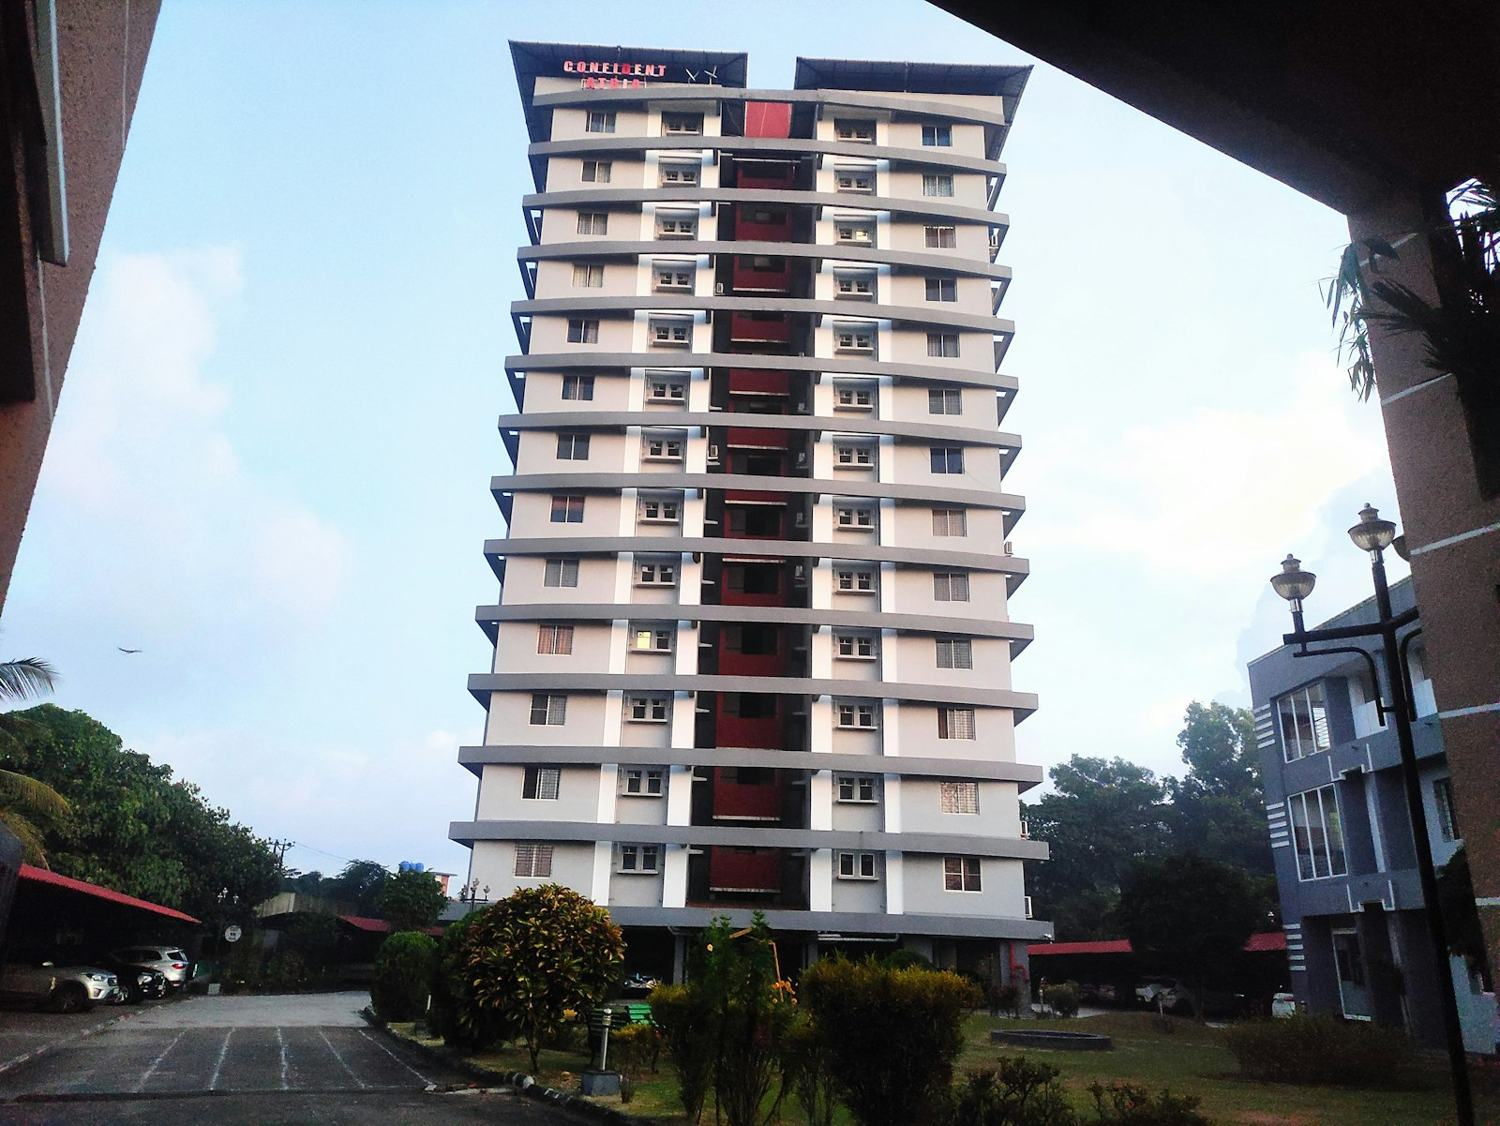
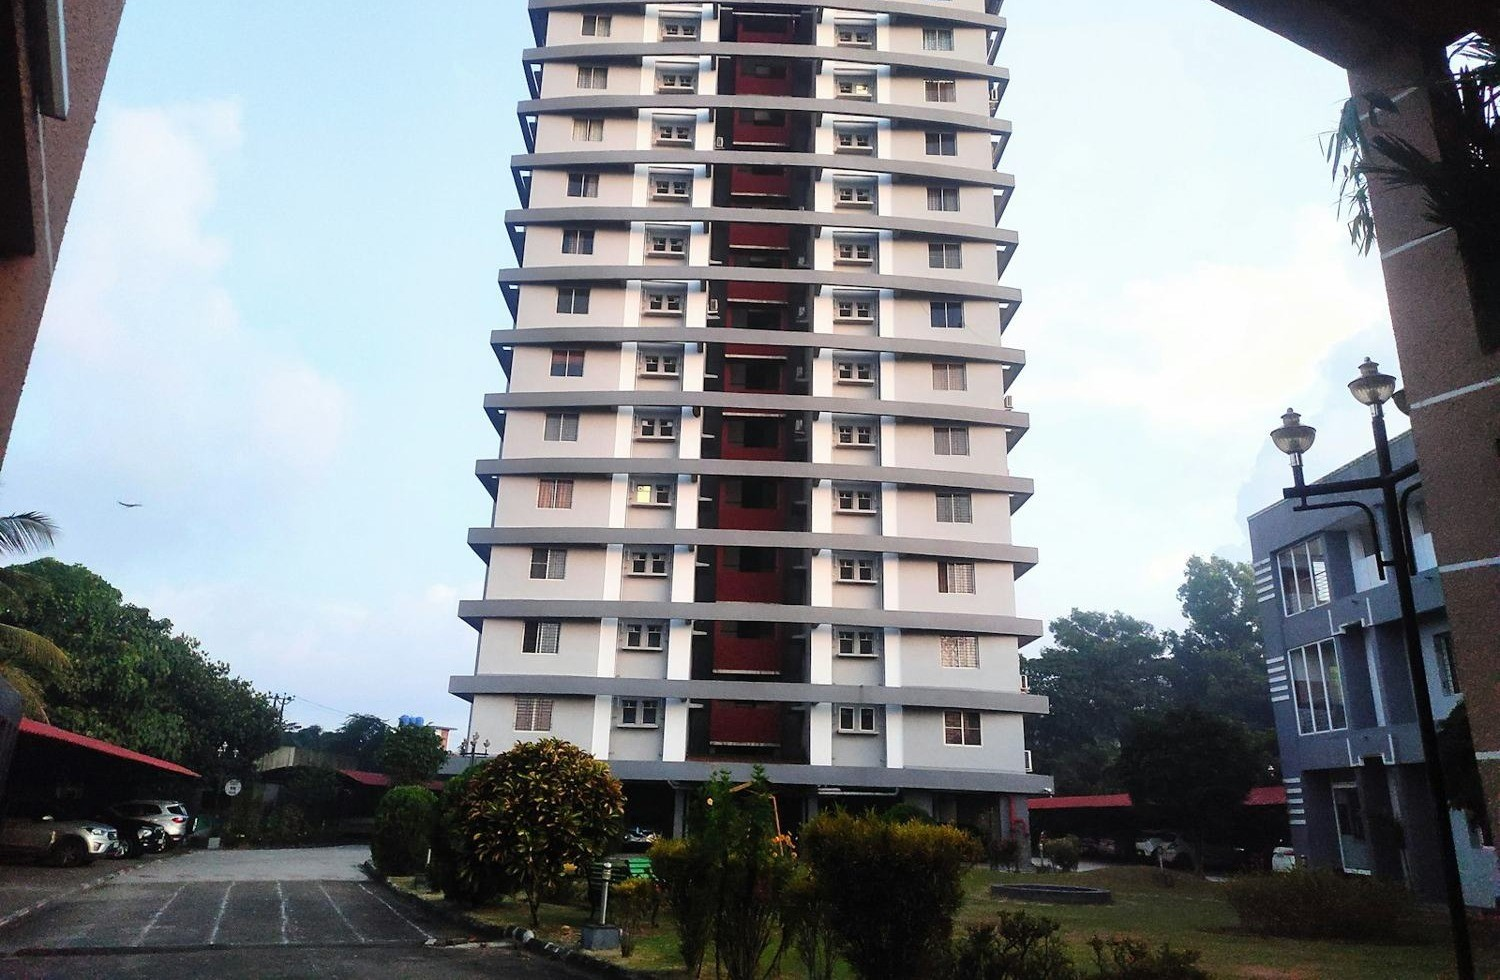
N-7: sample photos no longer show real project names (BILVAM REGENCY gate and crest, CONFIDENT ATRIA lettering cropped or covered); tip and pitch reels open on a hook card (hook alone on the brand background, no label or brand tag, 1.6 s) with quick cuts, like the slide reels; area reels keep their 

diff --git a/backend/app/modules/reels/templates.py b/backend/app/modules/reels/templates.py
@@ -7,6 +7,12 @@ from typing import Dict, List, Optional, Sequence, Tuple
 from .compose import Scene, TextLine, distinct_photos, stretch
 from .director import CTA_SCREEN, CTA_WORD  # noqa: F401  (CTA_WORD re-exported: the comment keyword)
 HOOK_SECONDS = 2.2  # the opening scene: most viewers decide in the first 1-2 s, so the hook is short and on screen from frame one
+# Tip and pitch reels open like the slide reels (reels/slides.py): the first slide reel lost 62% of plays in one second when frame
+# one was a busy picture. So frame one is a hook card: the hook alone, big, on the plain brand background (no photo, no label, no
+# brand tag), then quick cuts instead of slow cross-fades.
+HOOK_CARD_SECONDS = 1.6
+QUICK_XFADE = 0.15
+HOOK_OPTIONS = {"transition": "fade", "xfade": QUICK_XFADE, "hook_tag": False}
 
 
 def tip_reel(lines: Sequence[str], images: Optional[Sequence] = None, seed: str = "tip") -> Tuple[List[Scene], Dict]:
@@ -22,12 +28,12 @@ def tip_reel(lines: Sequence[str], images: Optional[Sequence] = None, seed: str 
     def img(i):
         return imgs[i % len(imgs)] if imgs else None
 
-    scenes = [Scene(image=img(0), lines=[TextLine(hook, size=132)], kicker="Quick tip", seconds=HOOK_SECONDS, seed=f"{seed}-0")]
+    scenes = [Scene(lines=[TextLine(hook, size=140, max_lines=4)], seconds=HOOK_CARD_SECONDS, seed=f"{seed}-0")]
     for i, b in enumerate(beats):
         scenes.append(Scene(image=img(i + 1), lines=[TextLine(b, size=110, max_lines=5)], kicker=f"Tip {i + 1} of {len(beats)}",
                             seconds=3.3, seed=f"{seed}-{i + 1}"))
     scenes.append(Scene(image=img(len(beats) + 1), lines=[TextLine(cta, size=96, max_lines=4)], seconds=2.8, seed=f"{seed}-cta"))
-    return _at_least_min(scenes, 0.45), {"transition": "fade"}
+    return _at_least_min(scenes, QUICK_XFADE), dict(HOOK_OPTIONS)
 
 
 def listing_tour(photos: Sequence, facts: Dict, sample: bool = False) -> Tuple[List[Scene], Dict]:
@@ -95,13 +101,13 @@ def agent_pitch(problem: str = "Buyers message you all day. *Same* questions. Ev
         return imgs[i % len(imgs)] if imgs else None
 
     scenes = [
-        Scene(image=img(0), lines=[TextLine(problem, size=108, max_lines=5)], kicker="Agents, sound familiar?", seconds=3.6, seed="pitch-problem"),
+        Scene(lines=[TextLine(problem, size=116, max_lines=5)], seconds=2.6, seed="pitch-problem"),   # a longer hook: a little longer
         Scene(image=img(1), lines=[TextLine(solution, size=88, max_lines=6)], kicker="There is a better way", seconds=4.0, seed="pitch-solution"),
     ]
     for i, p in enumerate(list(proof)[:2]):
         scenes.append(Scene(image=img(i + 2), lines=[TextLine(p, size=108)], kicker="What you get", seconds=2.4, seed=f"pitch-proof-{i}"))
     scenes.append(Scene(image=img(4), lines=[TextLine(cta, size=104)], seconds=2.6, seed="pitch-cta"))
-    return scenes, {"transition": "fade"}
+    return scenes, dict(HOOK_OPTIONS)
 
 
 def _at_least_min(scenes: List[Scene], xfade: float) -> List[Scene]:

diff --git a/backend/app/modules/calendar/area_reels.py b/backend/app/modules/calendar/area_reels.py
@@ -40,6 +40,7 @@ MIN_SLIDES = 4
 MIN_CONTRAST = 4.5
 MIN_FONT = 24
 SECONDS_PER_SLIDE = 3.4
+XFADE = 0.2  # a short blend into each slide (slides.py moved to plain cuts; area reels keep a soft change)
 SOURCE = "MahaRERA public records"
 SUBDIR = "calendar/areareels"
 MONTHS = ("Jan", "Feb", "Mar", "Apr", "May", "Jun", "Jul", "Aug", "Sep", "Oct", "Nov", "Dec")
@@ -270,8 +271,8 @@ def _frames(imgs: List[Image.Image], starts: List[float], seconds: float, total:
         t = k / _compose.FPS
         i = max(j for j in range(len(imgs)) if starts[j] <= t)
         img = imgs[i]
-        if i > 0 and t < starts[i] + _slides.XFADE:
-            img = Image.blend(imgs[i - 1], img, _compose.ease_in_out_cubic((t - starts[i]) / _slides.XFADE))
+        if i > 0 and t < starts[i] + XFADE:
+            img = Image.blend(imgs[i - 1], img, _compose.ease_in_out_cubic((t - starts[i]) / XFADE))
         yield img.tobytes()
 
 

diff --git a/backend/app/modules/showcase/samples.py b/backend/app/modules/showcase/samples.py
@@ -110,7 +110,7 @@ HOMES: List[Home] = [
           _u("u0tVimluL_ls.jpg", "interior", "Spl Interiors", "0tVimluL_ls", (0.5, 0.6))), "East"),
     Home("kharadi-3bhk-ready", "Kharadi", 3, 1050, 12, 25, "Ready to move", True, 14_500_000, "Furnished",
          ("parking", "lift", "gym", "pool", "clubhouse", "security"), ("Fully furnished", "Three bedrooms", "Modular kitchen"),
-         (_u("u7Cwct_F0Gbs.jpg", "exterior", "Parth Savani", "7Cwct-F0Gbs", (0.6, 0.35)),
+         (_u("u7Cwct_F0Gbs.jpg", "exterior", "Parth Savani", "7Cwct-F0Gbs", (0.45, 0.5)),
           _u("uAgK_XAqSbfk.jpg", "interior", "Danilo Rios", "AgK_XAqSbfk", (0.45, 0.55)),
           _u("uAgHJm3uKr4U.jpg", "interior", "Anand Kumar", "AgHJm3uKr4U", (0.5, 0.5)),
           _u("ub0DHABrkRcM.jpg", "interior", "Naksha Banwao", "b0DHABrkRcM", (0.5, 0.6))), "North-east"),

diff --git a/backend/tests/modules/reels/test_compose.py b/backend/tests/modules/reels/test_compose.py
@@ -250,3 +250,11 @@ def test_photo_plan_never_repeats_when_there_are_enough_photos():
     assert compose.photo_plan(5, ["a", "b"], 3) == ["a", "b", "a"]
     img = Image.new("RGB", (4, 4))
     assert compose.photo_plan(3, [img, img], 1) == [img]
+
+
+def test_tip_and_pitch_open_on_a_hook_card_with_quick_cuts():
+    """Like the slide reels: frame one is the hook alone on the brand background, no label, no brand tag, then quick cuts."""
+    for scenes, opts in (templates.tip_reel(templates.TIP_LINES), templates.agent_pitch()):
+        first = scenes[0]
+        assert first.image is None and first.kicker is None and first.seconds <= 2.6
+        assert opts["hook_tag"] is False and opts["xfade"] <= 0.2
